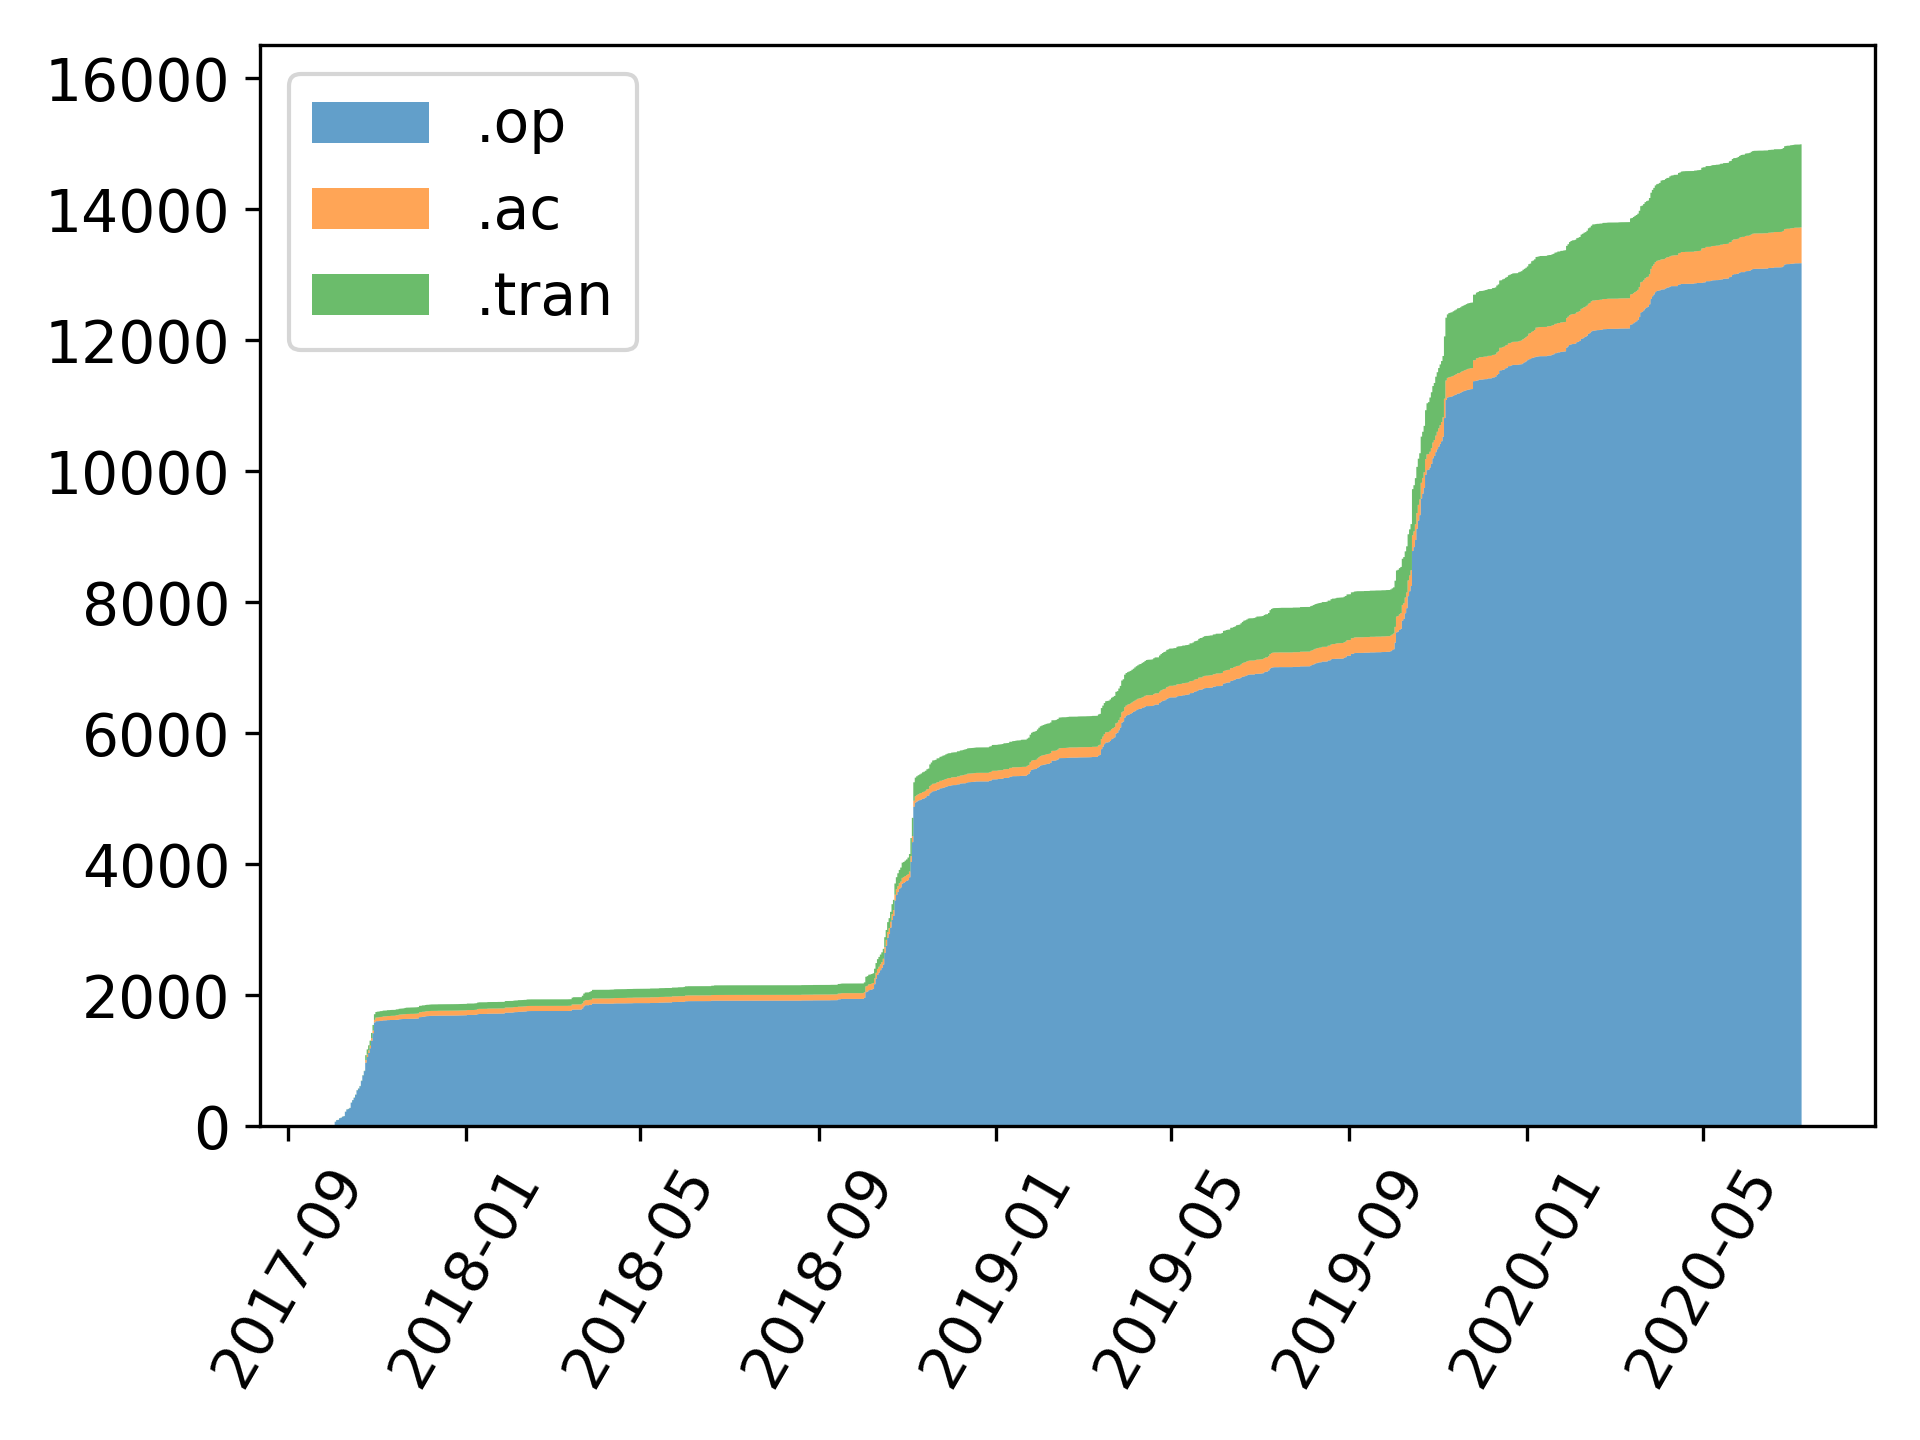
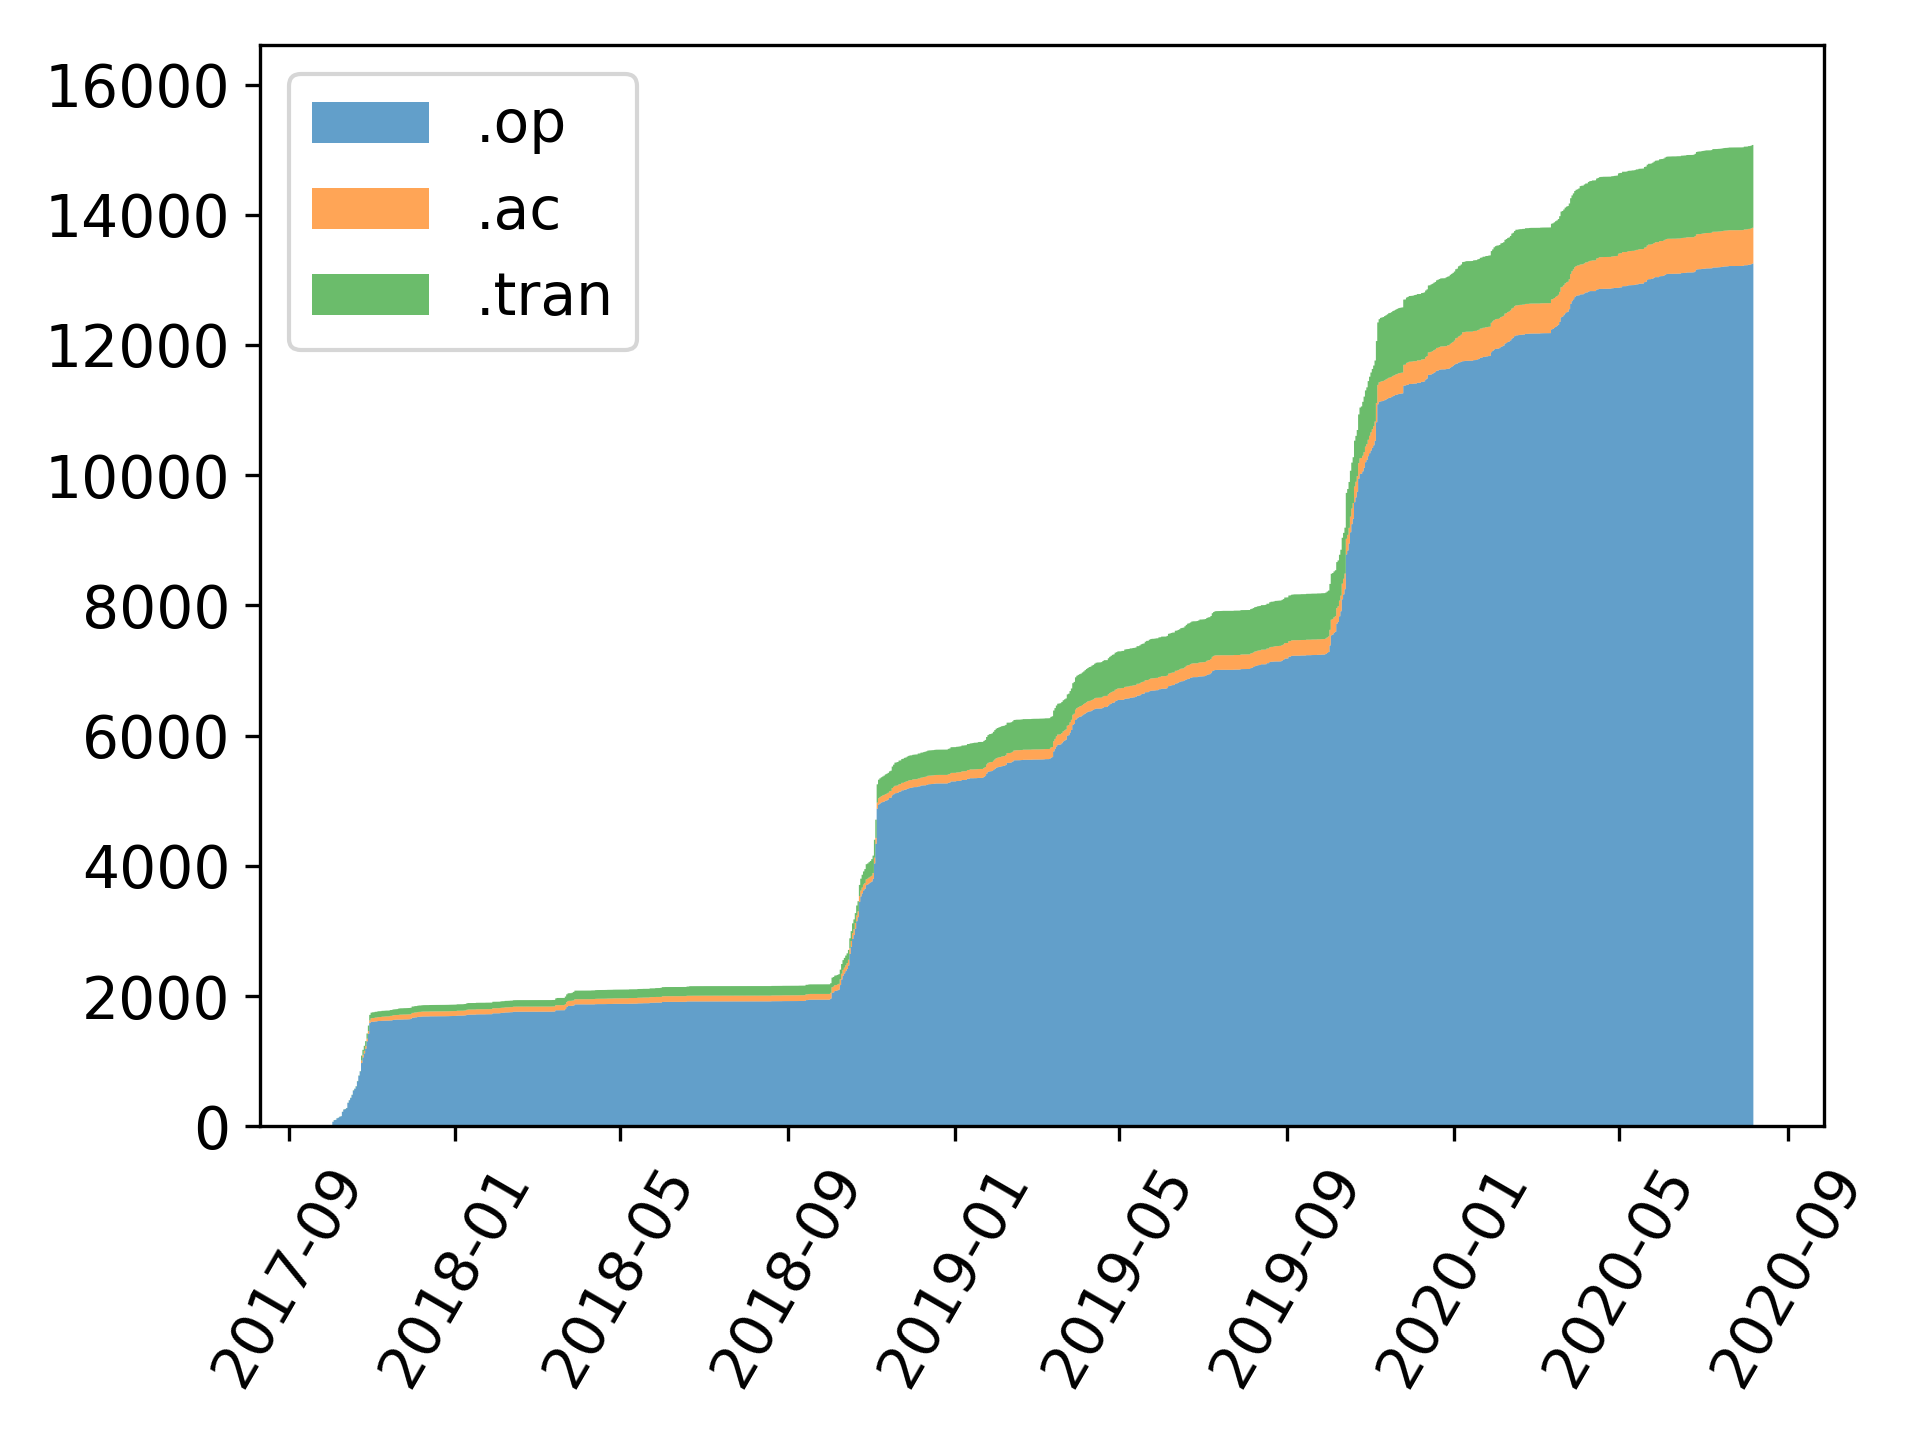
Update Aug. 8, 2020

diff --git a/README.md b/README.md
@@ -6,7 +6,7 @@
 
 
 ### Analysis performed
-Currently, SpicePyBot has been used by 1171 users for a total of 15164 analysis. Fig. 1 shows the percentages of the different analisys (`.op` = operating point, `.tran` = transient, `.ac` = alternatig current).
+Currently, SpicePyBot has been used by 1179 users for a total of 15254 analysis. Fig. 1 shows the percentages of the different analisys (`.op` = operating point, `.tran` = transient, `.ac` = alternatig current).
 
 <p align="center">
 <img src="./img/fig4_Analysis_percentage.png" width="450">
